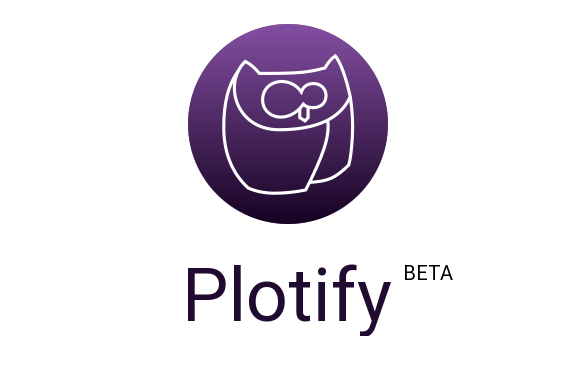
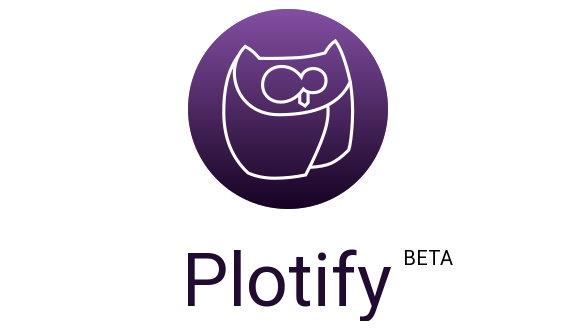
Header überarbeitet

diff --git a/README.md b/README.md
@@ -2,11 +2,10 @@
   <img src="docs/assets/header.png" alt="Plotify" />
 </p>
 
-
-## Über Plotify
-
-Plotify ist eine Software für Schriftsteller/innen, die dir dabei hilft, die Charaktere deiner Geschichte zu planen und zu organisieren.
-Behalte stets den Überblick und erschaffe eine fantastische Geschichte!
+<p align="center">
+  Plotify ist eine Software für Schriftsteller/innen, die dir dabei hilft, die Charaktere deiner Geschichte zu planen und zu organisieren.
+  Behalte stets den Überblick und erschaffe eine fantastische Geschichte!
+</p>
 
 <p align="center">
   <img src="docs/assets/screenshot-0.2.0-alpha.1-linux.png?raw=true" alt="Plotify v0.2.0-alpha.1 Linux" height="450" />
